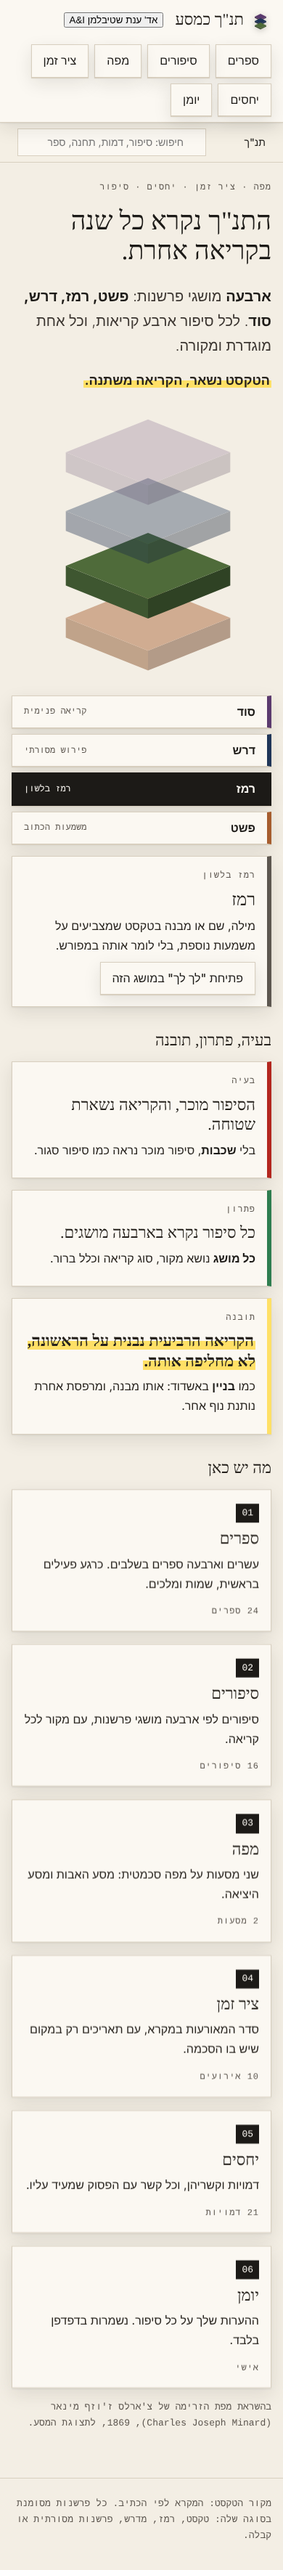
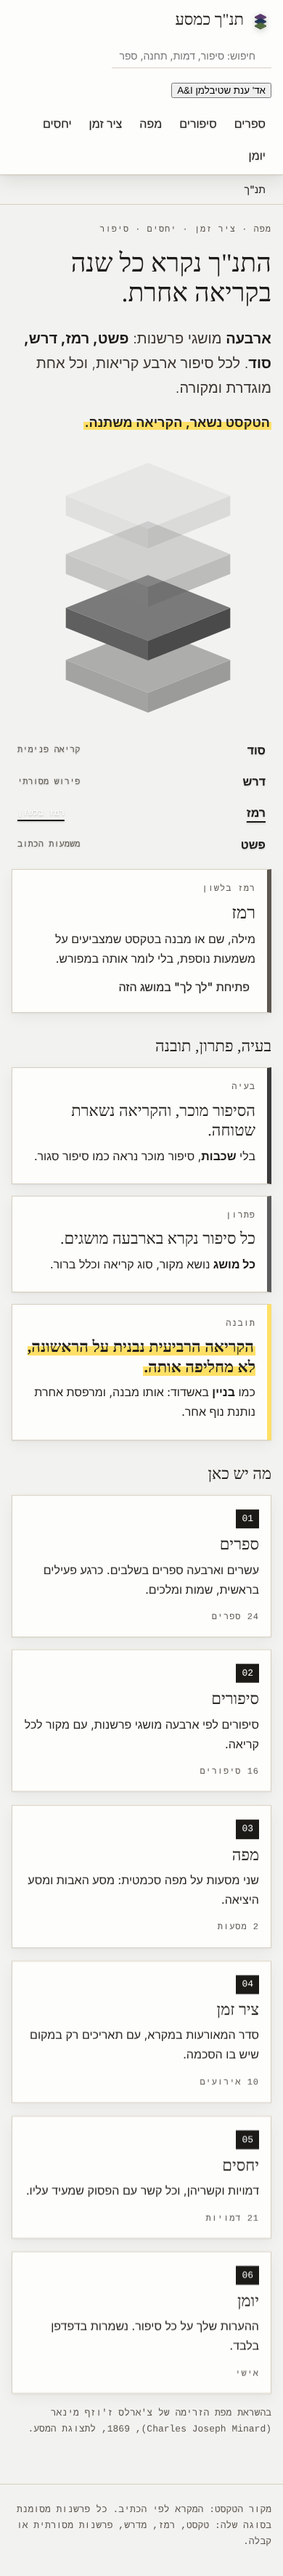
Plot summaries, text order, search in the bar, monochrome, tree pan and zoom
- A plot summary for each story, in short, from the text
- Stories listed in the order of the text (Genesis first, then Exodus, Kings)
- Search moved into the top bar; controls are text with a soft shadow, no frames
- Interface in greys; colour only where the content has meaning (era colours, tones)
- Family tree: pan by dragging, zoom with the buttons or the wheel
- The time band stays at the top while scrolling the stories
- Removed the Sefaria note under the quotations
- E2E: 44 checks

Claude-Session: https://claude.ai/code/session_018qeN17mCFRaqmZ26WBzJgY

diff --git a/src/content/plots.ts b/src/content/plots.ts
@@ -1,0 +1,19 @@
+// The plot of each story, in short, from the text itself (Tanach). Verse references are in the story.
+export const PLOTS: Record<string, string> = {
+  'bereshit-creation': 'אלוהים ברא את השמים והארץ בשישה ימים, והשביעי נח. הסדר נפרש מן האור עד האדם, שנברא בצלם אלוהים.',
+  'lech-lecha': 'אברם נקרא לצאת מארצו, ממולדתו ומבית אביו אל ארץ שיראה לו, ומובטח לו זרע גדול. הוא יוצא עם שרי ולוט, עובר בשכם ובבית-אל, ונודד לנגב. בתחילת הדרך גם עולה רעב, והוא יורד למצרים.',
+  noah: 'הרעה רבה בארץ, ונח איש צדיק מוצא חן. הוא בונה תיבה לפי ציווי, נכנס אליה עם משפחתו ועם בעלי החיים, והמבול מכסה את הארץ. לאחר שהמים נסוגו יוצאים מן התיבה, ויונה חוזרת עם עלה זית. הקשת נקבעת כאות ברית.',
+  bavel: 'בני האדם, שדוברים שפה אחת, בונים עיר ומגדל שראשו בשמים כדי לא להיפוץ על פני הארץ. ה\' יורד לראות, מבלבל את שפתם ומפיץ אותם משם. המקום נקרא בבל.',
+  'yaakov-sulam': 'יעקב בורח מבאר שבע לחרן. בדרך הוא לן במקום, חולם על סולם מוצב ארצה וראשו מגיע השמימה, ומלאכי אלוהים עולים ויורדים בו. ה\' מבטיח לו את הארץ ואת הזרע. בבוקר הוא קורא למקום בית-אל.',
+  'yaakov-peniel': 'יעקב נשאר לבד בלילה לפני המפגש עם עשו, ואיש נאבק עמו עד עלות השחר. האיש פוגע בירך יעקב, וזה נעשה צולע. הוא מקבל שם חדש, ישראל, והמקום נקרא פניאל.',
+  yosef: 'יעקב אוהב את יוסף יותר מכל בניו ועושה לו כתונת פסים. האחים שונאים אותו, ויוסף מספר חלומות על מעמד ושליטה. הם מוכרים אותו, והוא יורד למצרים. בבית פוטיפר ובבית הסוהר הוא מתקדם, עד שהוא מגיע לגבוה.',
+  akedah: 'אלוהים מנסה את אברהם ומציג לו לקחת את בנו יצחק ולהעלותו לעולה בארץ המוריה. הם הולכים שלושה ימים. בשעה שאברהם מוכן להקריב, מלאך ה\' קורא לו לעצור. נמצא איל נאחז בסבך, והוא מקריב אותו במקום בנו.',
+  seneh: 'משה רועה את צאן יתרו ליד הר האלוהים חורבה, ורואה סנה בוער שאינו אוכל. אלוהים קורא אליו ושולח אותו אל פרעה להוציא את בני ישראל ממצרים. משה שואל מי השולח, ואלוהים עונה "אהיה אשר אהיה".',
+  'moshe-tevah': 'בזמן גזירת הבנים, אמו של משה מסתירה אותו שלושה חודשים ואז שמה אותו בתיבת גמא על היאור. אחותו עוקבת מרחוק, ובת פרעה מוצאת את הילד, מגדלת אותו ומכנה אותו משה, כי מן המים משיתיהו.',
+  makot: 'ה\' שולח את משה ואהרן אל פרעה. פרעה מסרב, לבו כבד, וה\' מכה את מצרים בעשר מכות: מים לדם, צפרדעים, כינים, ערוב, דבר, שחין, ברד, ארבה, חושך ומכת הבכורות. לאחר המכה האחרונה פרעה משלח את העם.',
+  pesach: 'לפני מכת הבכורות מצווים בני ישראל לקחת שה, לשחוט אותו, ולמרוח את דמו על המזוזות ועל המשקוף. ה\' עובר את מצרים ופוסח על הבתים שבהם הדם. הלילה נקבע לזיכרון לדורות, והחג מתחיל בבית.',
+  yetziat: 'פרעה רודף אחרי בני ישראל אחרי שיצאו ממצרים, והם עומדים לפני הים. משה מושיט את ידו, וה\' מוליך את הים ברוח קדים עזה כל הלילה, והמים נבקעים לשני צדדים. מצרים רודפים אחריהם, והמים שבים ומכסים אותם.',
+  'har-sinai': 'בני ישראל מגיעים להר סיני. ה\' יורד על ההר באש, ההר עשן כולו, וקול שופר נשמע. העם עומד מרחוק, ומשה עולה אל האלוהים, ומתחיל מעמד הדיבור והברית.',
+  egel: 'משה שוהה בהר ארבעים יום. העם מבקש אלוה שילך לפניהם, ואהרן לוקח את זהבם ועושה עגל מסכה. העם אומר "אלה אלהיך ישראל", ומקריבים לו. משה יורד, שובר את הלוחות, ושורף את העגל.',
+  eliyahu: 'אליהו בורח מאיזבל אל הר חורב, שם אלוהים נמצא. רוח גדולה, רעש ואש עוברים לפניו, ואלוהים אינו בהם. אחר כך נשמע קול דממה דקה, והנביא עוטה את פניו ויוצא אל הפתח. ה\' שולח אותו למשוח את אלישע.',
+};

diff --git a/src/components/FamilyTree.tsx b/src/components/FamilyTree.tsx
@@ -1,4 +1,4 @@
-import { useState } from 'react';
+import { useRef, useState } from 'react';
 import { PEOPLE } from '../content/people';
 import type { Tree, UnionKind } from '../content/families';
 
@@ -23,6 +23,8 @@ interface Props {
 // Generations as rows. Couples share a line; children hang from a bus under their parents.
 export default function FamilyTree({ tree, selected = '', onPick = () => undefined, highlight = [] }: Props) {
   const [zoom, setZoom] = useState(1);
+  const [pan, setPan] = useState({ x: 0, y: 0 });
+  const drag = useRef<{ x: number; y: number; px: number; py: number } | null>(null);
   const pos = new Map(tree.nodes.map((n) => [n.id, n]));
   const center = (id: string) => {
     const n = pos.get(id);
@@ -66,11 +68,25 @@ export default function FamilyTree({ tree, selected = '', onPick = () => undefin
   return (
     <div className="tree-wrap">
       <div className="tree-zoom" role="group" aria-label="זום העץ">
-        <button type="button" className="chip press" onClick={() => setZoom((z) => Math.max(0.5, z - 0.25))} aria-label="התקרבות">−</button>
-        <button type="button" className="chip press" onClick={() => setZoom(1)} aria-label="איפוס זום">{Math.round(zoom * 100)}%</button>
-        <button type="button" className="chip press" onClick={() => setZoom((z) => Math.min(2, z + 0.25))} aria-label="הגדלה">+</button>
+        <button type="button" className="chip press" onClick={() => setZoom((z) => Math.max(0.4, z / 1.25))} aria-label="התקרבות">−</button>
+        <button type="button" className="chip press" onClick={() => { setZoom(1); setPan({ x: 0, y: 0 }); }} aria-label="איפוס זום">{Math.round(zoom * 100)}%</button>
+        <button type="button" className="chip press" onClick={() => setZoom((z) => Math.min(2.5, z * 1.25))} aria-label="הגדלה">+</button>
       </div>
-      <div className="tree-stage" style={{ zoom }}>
+      <div
+        className="tree-view"
+        onPointerDown={(e) => {
+          drag.current = { x: e.clientX, y: e.clientY, px: pan.x, py: pan.y };
+          (e.currentTarget as HTMLElement).setPointerCapture(e.pointerId);
+        }}
+        onPointerMove={(e) => {
+          const d = drag.current;
+          if (d) setPan({ x: d.px + (e.clientX - d.x), y: d.py + (e.clientY - d.y) });
+        }}
+        onPointerUp={() => (drag.current = null)}
+        onPointerCancel={() => (drag.current = null)}
+        onWheel={(e) => setZoom((z) => Math.min(2.5, Math.max(0.4, z * (e.deltaY < 0 ? 1.1 : 0.9))))}
+      >
+      <div className="tree-stage" style={{ transform: `translate(${pan.x}px, ${pan.y}px) scale(${zoom})` }}>
     <svg viewBox={`0 0 ${tree.w} ${tree.h}`} className="family-tree" role="img" aria-label={tree.he} style={{ direction: 'ltr' }}>
       {/* Links first, so boxes sit on top. */}
       {tree.unions.map((u) => {
@@ -142,6 +158,7 @@ export default function FamilyTree({ tree, selected = '', onPick = () => undefin
         );
       })}
     </svg>
+      </div>
       </div>
     </div>
   );

diff --git a/src/styles.css b/src/styles.css
@@ -1,16 +1,16 @@
 /* Tokens: one place for color, spacing and shadow. Square corners everywhere, by house rule. */
 :root {
-  --ground: #f3eee4;
-  --paper: #fbf8f2;
+  --ground: #f2f2f0;
+  --paper: #fdfdfc;
   --ink: #1c1a17;
   --muted: #5d5750;
   --line: #d8cfbf;
-  --earth: #a65d2e;
-  --olive: #4f6b3a;
-  --night: #1f3558;
-  --plum: #5b3a6e;
-  --problem: #b3261e;
-  --solution: #2e7d4f;
+  --earth: #6b6b6b;
+  --olive: #4a4a4a;
+  --night: #222222;
+  --plum: #8a8a8a;
+  --problem: #3a3a3a;
+  --solution: #5c5c5c;
   --insight: #ffe066;
 
   --s1: 4px;
@@ -1878,4 +1878,100 @@ h3 {
 .story-row:hover .row-title {
   text-decoration: underline;
   text-underline-offset: 4px;
+}
+
+
+/* ===== Monochrome interface: colour only where the content has meaning ===== */
+.chip,
+.floor-btn,
+.link-btn {
+  background: transparent;
+  border: 0;
+  box-shadow: none;
+  text-shadow: 0 1px 2px rgba(0, 0, 0, 0.22);
+  padding: 4px 8px;
+}
+.chip:hover,
+.floor-btn:hover,
+.link-btn:hover {
+  transform: translateY(-1px);
+  text-shadow: 0 2px 4px rgba(0, 0, 0, 0.3);
+  box-shadow: none;
+}
+.chip.is-active,
+.floor-btn.is-active {
+  background: transparent;
+  color: var(--ink);
+  text-decoration: underline;
+  text-underline-offset: 6px;
+  text-decoration-thickness: 2px;
+  font-weight: 600;
+}
+.card,
+.panel,
+.stage-band,
+.stage-map,
+.stage-people,
+.stage-list {
+  box-shadow: 0 1px 2px rgba(0, 0, 0, 0.06), 0 6px 18px rgba(0, 0, 0, 0.05);
+}
+.search {
+  min-width: 180px;
+  max-width: 240px;
+  flex: 0 1 220px;
+}
+.search input[type='search'] {
+  background: transparent;
+  border: 0;
+  border-bottom: 1px solid var(--line);
+  padding: 4px 22px 4px 4px;
+  box-shadow: none;
+}
+.contextbar {
+  background: var(--ground);
+}
+.topbar {
+  background: var(--paper);
+}
+.stage .stage-band {
+  position: sticky;
+  top: 120px;
+  z-index: 20;
+}
+.tree-view {
+  height: 520px;
+  overflow: hidden;
+  cursor: grab;
+  touch-action: none;
+  border: 1px solid var(--line);
+  background: var(--paper);
+}
+.tree-view:active {
+  cursor: grabbing;
+}
+.tree-stage {
+  transform-origin: 0 0;
+  width: 100%;
+}
+.tree-stage .family-tree {
+  width: 100%;
+  min-width: 0;
+  max-width: none;
+  height: auto;
+}
+.plot {
+  background: var(--paper);
+  border: 1px solid var(--line);
+  padding: var(--s3) var(--s4);
+  margin-top: var(--s4);
+}
+.plot p:last-child {
+  margin-bottom: 0;
+  font-size: 18px;
+  line-height: 1.8;
+}
+@media (max-width: 760px) {
+  .stage .stage-band {
+    position: static;
+  }
 }

diff --git a/src/types.ts b/src/types.ts
@@ -10,10 +10,10 @@ export interface LevelInfo {
 
 // Four floors of one building, from the ground (pshat) to the roof (sod).
 export const LEVELS: LevelInfo[] = [
-  { id: 'pshat', name: 'פשט', floor: 'משמעות הכתוב', hint: 'המשמעות הישירה של הכתוב, בלשונו ובהקשרו הקרוב. זו הקריאה הראשונה, והבסיס לכל השאר.', color: '#a65d2e' },
-  { id: 'remez', name: 'רמז', floor: 'רמז בלשון', hint: 'מילה, שם או מבנה בטקסט שמצביעים על משמעות נוספת, בלי לומר אותה במפורש.', color: '#4f6b3a' },
-  { id: 'derash', name: 'דרש', floor: 'פירוש מסורתי', hint: 'הפירוש שחכמים ומסורות הפרשנות הסיקו מהכתוב, לפעמים מתוך שאלה על פשוטו.', color: '#1f3558' },
-  { id: 'sod', name: 'סוד', floor: 'קריאה פנימית', hint: 'פירוש קבלי או סימבולי, שנשען על מסורת פנימית ולא על פשט הטקסט. זו פרשנות, לא טקסט.', color: '#5b3a6e' },
+  { id: 'pshat', name: 'פשט', floor: 'משמעות הכתוב', hint: 'המשמעות הישירה של הכתוב, בלשונו ובהקשרו הקרוב. זו הקריאה הראשונה, והבסיס לכל השאר.', color: '#222222' },
+  { id: 'remez', name: 'רמז', floor: 'רמז בלשון', hint: 'מילה, שם או מבנה בטקסט שמצביעים על משמעות נוספת, בלי לומר אותה במפורש.', color: '#555555' },
+  { id: 'derash', name: 'דרש', floor: 'פירוש מסורתי', hint: 'הפירוש שחכמים ומסורות הפרשנות הסיקו מהכתוב, לפעמים מתוך שאלה על פשוטו.', color: '#888888' },
+  { id: 'sod', name: 'סוד', floor: 'קריאה פנימית', hint: 'פירוש קבלי או סימבולי, שנשען על מסורת פנימית ולא על פשט הטקסט. זו פרשנות, לא טקסט.', color: '#aaaaaa' },
 ];
 
 export const levelById = (id: string | null | undefined): LevelInfo =>

diff --git a/src/components/Stage.tsx b/src/components/Stage.tsx
@@ -8,12 +8,14 @@ import { TREES } from '../content/families';
 import { ERA_CONTEXT } from '../content/context';
 import { ART } from '../content/art';
 import type { Story } from '../types';
+import { orderStories } from '../content/order';
+import { PLOTS } from '../content/plots';
 
 // The same stage on every topic page, in the same place:
 // 1. the year scale (top band), 2. the map (left) and the family tree (right), 3. the numbered story rows.
 // The story in focus lights its point on the scale, its stops on the map, and its people in the tree.
 export default function Stage({
-  stories,
+  stories: unordered,
   eras,
   route,
   focusId,
@@ -25,6 +27,7 @@ export default function Stage({
   focusId: string;
   onFocus: (id: string) => void;
 }) {
+  const stories = orderStories(unordered);
   const [zoom, setZoom] = useState<'wide' | 'close'>('wide');
   const [playToken, setPlayToken] = useState(0);
   const focus = stories.find((s) => s.id === focusId) ?? stories[0];
@@ -85,9 +88,8 @@ export default function Stage({
               </button>
               {s.id === focus?.id && (
                 <div className="row-detail">
-                  <p>
-                    {ERA_CONTEXT[s.era].years}
-                  </p>
+                  <p>{PLOTS[s.id]}</p>
+                  <p className="source">{ERA_CONTEXT[s.era].years}</p>
                   {ART[s.id] && <p className="source">תמונה: {ART[s.id].title}, {ART[s.id].artist}, {ART[s.id].year}</p>}
                   <p>
                     <a className="chip press" href={`#/stories/${s.id}`}>

diff --git a/src/pages/StoryPage.tsx b/src/pages/StoryPage.tsx
@@ -5,6 +5,7 @@ import Motif from '../components/Motif';
 import Correlation from '../components/Correlation';
 import { ART } from '../content/art';
 import { QUOTE_VOCAL } from '../content/quotes';
+import { PLOTS } from '../content/plots';
 import { STORY_CHAPTERS } from '../content/chapters';
 import { BookRail } from '../components/BookRail';
 import Rich from '../components/Rich';
@@ -75,9 +76,13 @@ export default function StoryPage({ id, level }: Props) {
         )}
       </header>
 
+      <section className="plot" aria-label="תקציר העלילה">
+        <p className="eyebrow">תקציר העלילה</p>
+        <p>{PLOTS[story.id]}</p>
+      </section>
+
       <blockquote className="quote">
         <p className="quote-text" lang="he">“{QUOTE_VOCAL[story.id] ?? story.quote.text}”</p>
-        <p className="quote-note">טקסט המקרא עם ניקוד: Sefaria, רישיון CC-BY-NC.</p>
         <cite>{story.quote.source}</cite>
       </blockquote>
 

diff --git a/src/pages/BooksPage.tsx b/src/pages/BooksPage.tsx
@@ -3,6 +3,7 @@ import { BOOKS, SECTIONS } from '../content/books';
 import { STORIES } from '../content/stories';
 import { CHAPTER_COUNT } from '../content/chapters';
 import { BookSequence } from '../components/BookRail';
+import { orderStories } from '../content/order';
 
 // Three levels on one page: the Bible (the sequence), a book (a row), and its stories (rows under it).
 // A book opens in place; nothing leaves the page.
@@ -28,7 +29,7 @@ export default function BooksPage() {
           <ol className="book-rows">
             {BOOKS.filter((b) => b.section === section).map((b) => {
               n += 1;
-              const stories = STORIES.filter((s) => s.book === b.id);
+              const stories = orderStories(STORIES.filter((s) => s.book === b.id));
               const isOpen = open === b.id;
               return (
                 <li key={b.id}>

diff --git a/src/pages/StoriesPage.tsx b/src/pages/StoriesPage.tsx
@@ -2,6 +2,7 @@ import Rich from '../components/Rich';
 import { STORIES } from '../content/stories';
 import { BOOKS } from '../content/books';
 import { STORY_CHAPTERS } from '../content/chapters';
+import { orderStories } from '../content/order';
 
 interface Props {
   book: string | null;
@@ -10,7 +11,7 @@ interface Props {
 // Topic: the stories. Each story is a numbered row: the book's own list, in the order of the text.
 export default function StoriesPage({ book }: Props) {
   const current = BOOKS.find((b) => b.id === book) ?? null;
-  const list = current ? STORIES.filter((s) => s.book === current.id) : STORIES;
+  const list = orderStories(current ? STORIES.filter((s) => s.book === current.id) : STORIES);
   return (
     <div className="stories">
       <header className="page-head">

diff --git a/src/components/IsoStack.tsx b/src/components/IsoStack.tsx
@@ -4,10 +4,10 @@ import { LEVELS, type Level } from '../types';
 // Exploded axonometric of one building: four floors floating above each other.
 // Front faces are darker, so the depth reads at a glance.
 const SHADE: Record<Level, [string, string, string]> = {
-  pshat: ['#a65d2e', '#84491f', '#66371a'],
-  remez: ['#4f6b3a', '#3e5630', '#2f4224'],
-  derash: ['#1f3558', '#18294a', '#111f38'],
-  sod: ['#5b3a6e', '#4a2f5a', '#37233f'],
+  pshat: ['#5a5a5a', '#444444', '#333333'],
+  remez: ['#7a7a7a', '#5f5f5f', '#4a4a4a'],
+  derash: ['#9a9a9a', '#7c7c7c', '#636363'],
+  sod: ['#c4c4c4', '#a5a5a5', '#8a8a8a'],
 };
 
 interface Props {

diff --git a/src/content/order.ts b/src/content/order.ts
@@ -1,0 +1,13 @@
+import { BOOKS } from './books';
+import { STORY_CHAPTERS } from './chapters';
+import type { Story } from '../types';
+
+// Stories in the order of the text: the book in the traditional order, then the chapter.
+export const storyOrder = (id: string): number => {
+  const c = STORY_CHAPTERS[id];
+  if (!c) return Number.MAX_SAFE_INTEGER;
+  const book = BOOKS.findIndex((b) => b.id === c.book);
+  return book * 1000 + c.from;
+};
+
+export const orderStories = (list: Story[]): Story[] => [...list].sort((a, b) => storyOrder(a.id) - storyOrder(b.id));

diff --git a/src/components/ContextBar.tsx b/src/components/ContextBar.tsx
@@ -2,7 +2,6 @@ import { useRoute } from '../lib/hash';
 import { BOOKS } from '../content/books';
 import { STORIES } from '../content/stories';
 import { ROUTES } from '../content/route';
-import { SearchBox } from './SearchBox';
 
 // The sticky path of what is open now: תנ"ך › חלק › ספר › סיפור. It stays visible while scrolling.
 export default function ContextBar() {
@@ -40,7 +39,6 @@ export default function ContextBar() {
           </span>
         ))}
       </nav>
-      <SearchBox />
     </div>
   );
 }

diff --git a/src/pages/PeoplePage.tsx b/src/pages/PeoplePage.tsx
@@ -5,9 +5,9 @@ import { KIND_LABEL, PEOPLE, RELATIONS, type RelationKind } from '../content/peo
 import { STORIES } from '../content/stories';
 
 const KIND_COLOR: Record<RelationKind, string> = {
-  family: '#a65d2e',
-  conflict: '#b3261e',
-  bond: '#4f6b3a',
+  family: '#222222',
+  conflict: '#000000',
+  bond: '#888888',
 };
 
 // Topic: relations. Choosing a kind of relation narrows the stage; the family tree zooms in and out.
